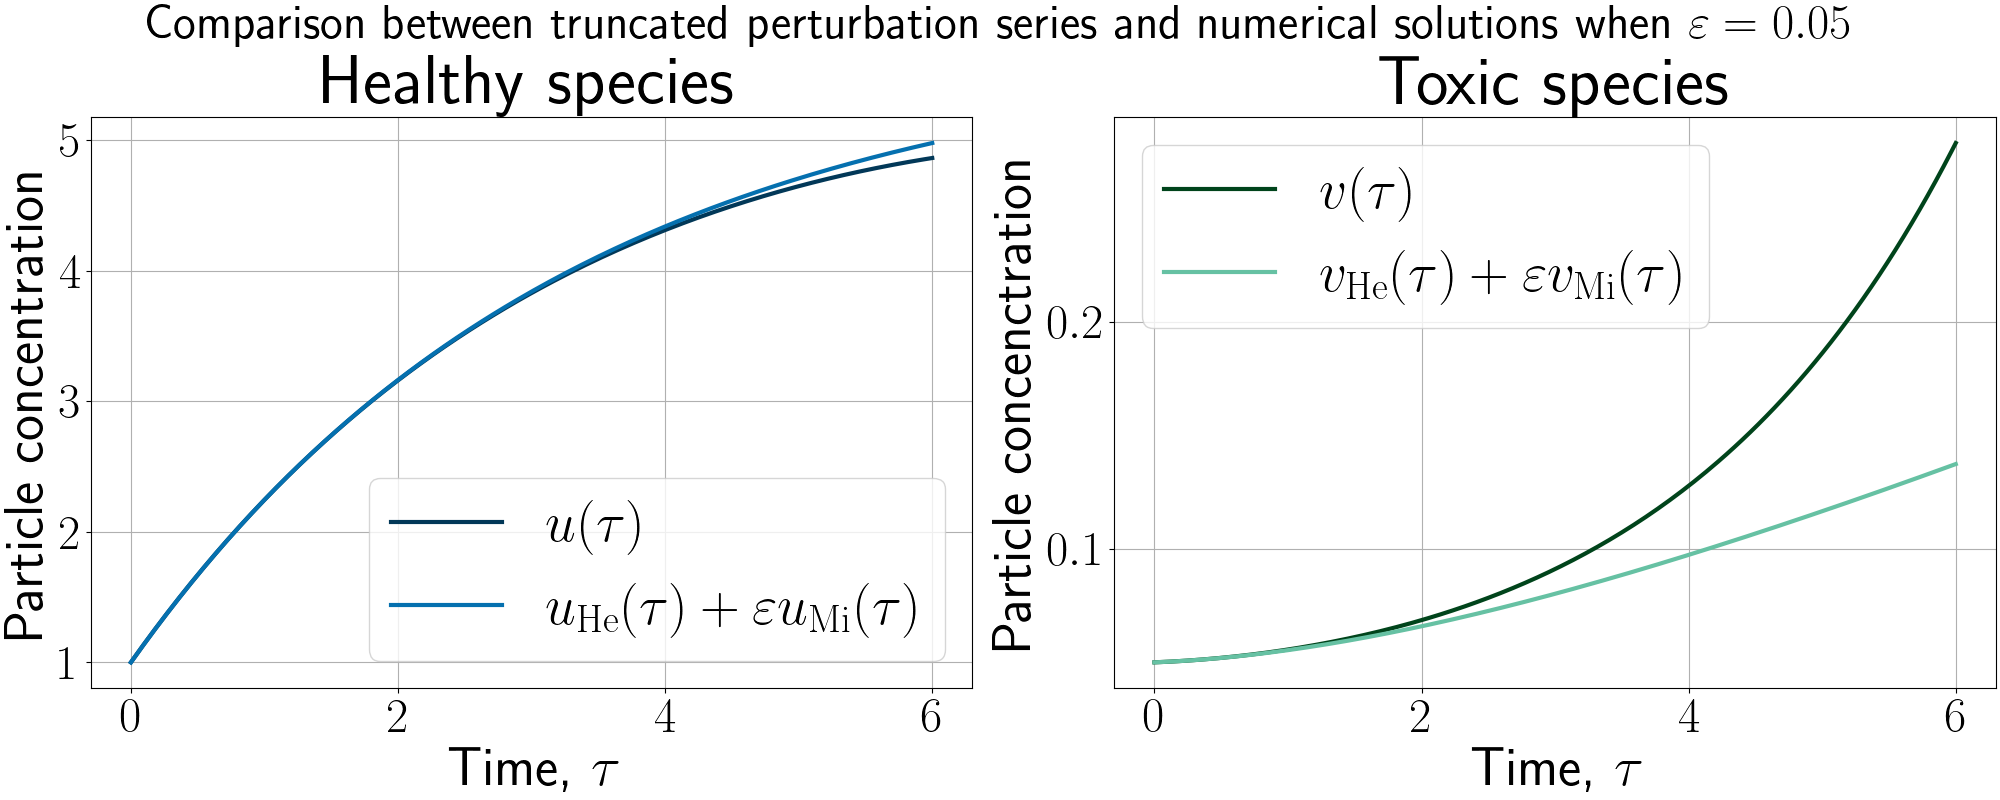
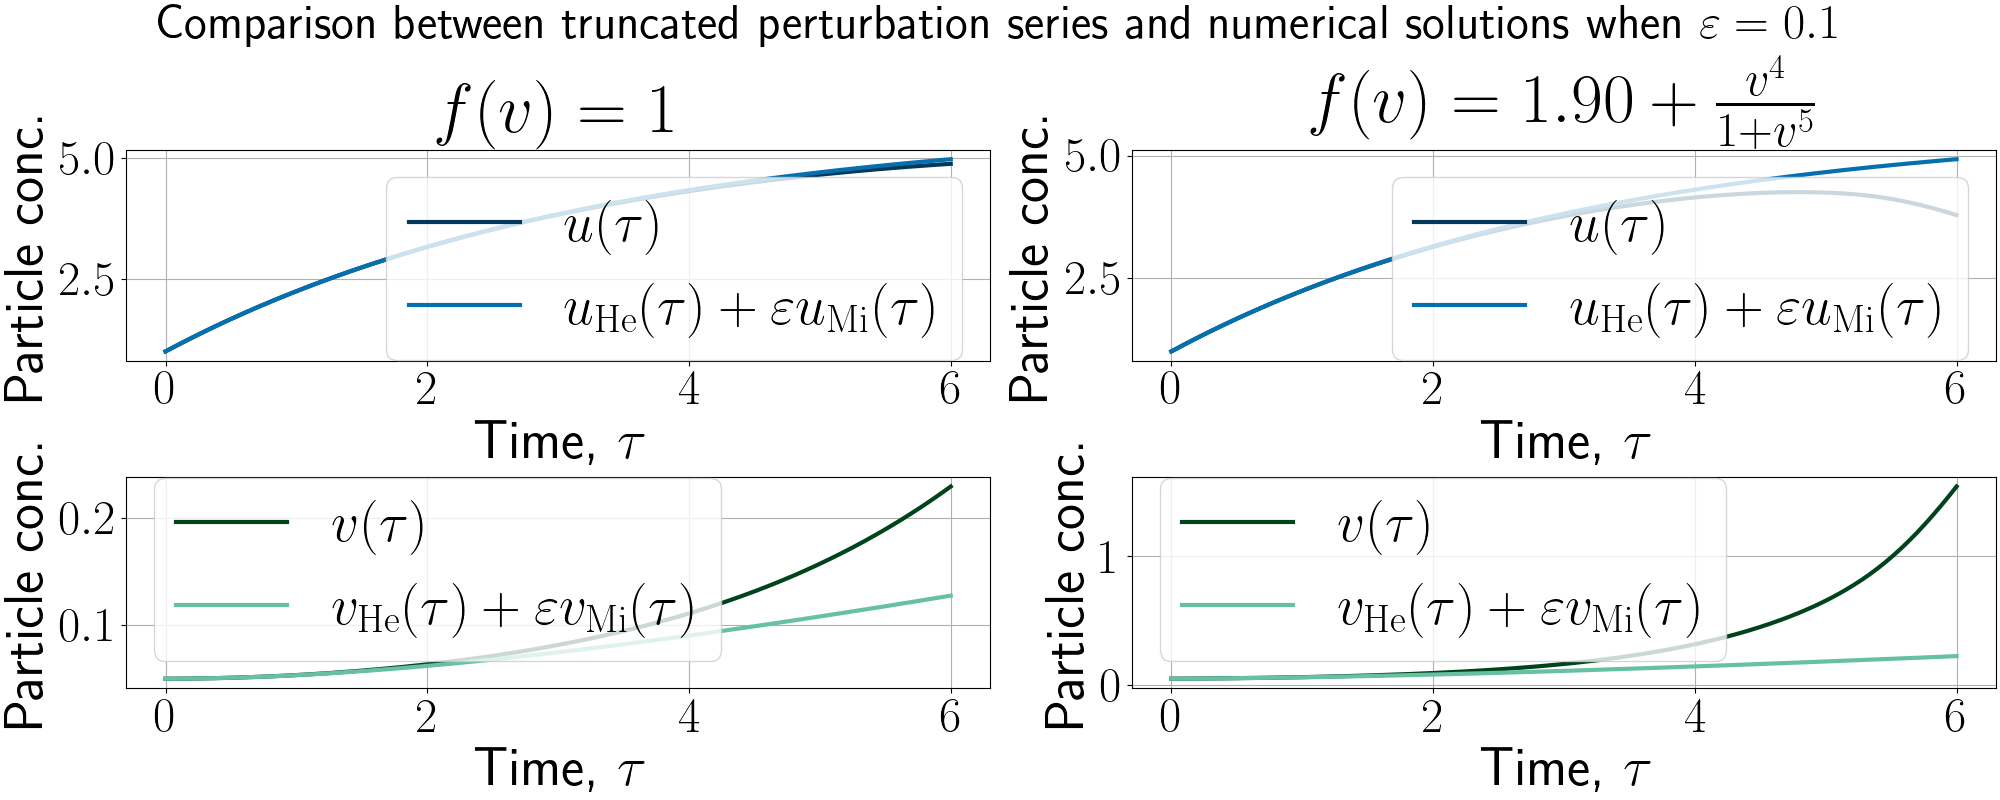
Update with logistic figure

diff --git a/Code/HeMiTo.py b/Code/HeMiTo.py
@@ -2,7 +2,7 @@
 # =========================================================
 # Script: HeMiTo
 # Written by: Johannes Borgqvist
-# Date: 2026-10-02
+# Date: 2026-10-09
 # Description:
 # This is the main script for the  continuation paper for the first HeMiTo-paper, and here we validate analytical approximations in the Mi-phase.
 # =========================================================
@@ -18,8 +18,7 @@ plt.rcParams['text.usetex'] = True
 # Define dimensionless parameters
 c1 = 1.75 # Healthy formation rate
 c2 = 0.3 # Healthy degradation rate
-vareps = 0.05 # Conversion rate and perturbation parameter (small value)
-#vareps = 0.10 # Exponential
+vareps = 0.10 # Conversion rate and perturbation parameter (small value)
 # =========================================================
 # =========================================================
 # DEFINE FUNCTIONS
@@ -27,7 +26,7 @@ vareps = 0.05 # Conversion rate and perturbation parameter (small value)
 # =========================================================
 # ----------------------------------------------------------
 # Function 1: ODE system with f=1
-def aB(y, t, p):
+def heterodimer_constant(y, t, p):
     # Unpack and re-name our parameters so that
     # they are understandable
     c1 = p[0]
@@ -38,7 +37,7 @@ def aB(y, t, p):
     return dydt
 # ----------------------------------------------------------   
 # Function 2: ODE system with Hill-type conversion function
-def aB_Hill(y, t, p):
+def heterodimer_nonlinear(y, t, p):
     # Unpack and re-name our parameters so that
     # they are understandable
     c1 = p[0]
@@ -94,21 +93,21 @@ def v_Mi(t, p):
 # =========================================================
 def main():
     # ===================================================================
-    # PART 1 OF 2: NUMERICAL SOLUTIONS VS TRUNCATED PERTURBATION SERIES
+    # PART 1 OF 3: NUMERICAL SOLUTIONS VS TRUNCATED PERTURBATION SERIES
     # ===================================================================
     # Initial conditions
     y0 = [1.00, 0.05]
     # Parameters yeah
     p = [c1, c2, vareps]
-    # Define the age or time if you will
+    # Define the time
     t = np.linspace(0,6,200)
     #-------------------------------------------------------------------
     # Simulate patient with simple conversion term
-    prions = odeint(aB, y0, t, args=(p,))
+    prions_constant = odeint(heterodimer_constant, y0, t, args=(p,))
     # Extract each species for patient
-    u, v = prions.T
+    u_constant, v_constant = prions_constant.T
     # Conversion function
-    f0 = 1 # Standard heterodimer model
+    f0_constant = 1 # Standard heterodimer model
     #-------------------------------------------------------------------
     #-------------------------------------------------------------------
     # UNCOMMENT THE REGION IF YOU WANT TO PLOT THE SOLUTIONS FOR
@@ -116,11 +115,11 @@ def main():
     #-------------------------------------------------------------------    
     #-------------------------------------------------------------------    
     # Simulate patient with simple conversion term
-    prions = odeint(aB_Hill, y0, t, args=(p,))
+    prions_nonlinear = odeint(heterodimer_nonlinear, y0, t, args=(p,))
     # Extract each species for patient
-    u, v = prions.T
+    u_nonlinear, v_nonlinear = prions_nonlinear.T
     # Conversion function f(v0) for the nonlinear Hill conversion function
-    f0 = 1.90+((y0[1]**4)/(1+(y0[1]**5)))
+    f0_nonlinear = 1.90+((y0[1]**4)/(1+(y0[1]**5)))
     #-------------------------------------------------------------------
     #-------------------------------------------------------------------
     # FIGURE 1: SOLUTIONS VS TRUNCATED PERTURBATION SERIES
@@ -128,99 +127,220 @@ def main():
     #-------------------------------------------------------------------
     # The colours for the plots are chosen based on the colourmaps available at https://colorbrewer2.org/
     # Make a 1x2 plot
-    f_prions, ax_prions = plt.subplots(1, 2, constrained_layout=True, figsize=(20, 8))
+    f_prions, ax_prions = plt.subplots(2, 2, constrained_layout=True, figsize=(20, 8))
+    #-------------------------------------------------------------------
+    # Plot 1A: u vs u_He+vareps*u_Mi with f(v)=1
+    #-------------------------------------------------------------------
     # Plot the simulated data and the underlying model
-    ax_prions[0].plot(t,u,color=(2/256,56/256,88/256),label="$u(\\tau)$",linewidth=3.0)
-    ax_prions[0].plot(t,u_He(t, [y0[0], c1, c2])+vareps*u_Mi(t, [y0[0], y0[1], c1, c2, f0]),color=(5/256,112/256,176/256),label="$u_{\\mathrm{He}}(\\tau)+\\varepsilon u_{\\mathrm{Mi}}(\\tau)$",linewidth=3.0)
+    ax_prions[0][0].plot(t,u_constant,color=(2/256,56/256,88/256),label="$u(\\tau)$",linewidth=3.0)
+    ax_prions[0][0].plot(t,u_He(t, [y0[0], c1, c2])+vareps*u_Mi(t, [y0[0], y0[1], c1, c2, f0_constant]),color=(5/256,112/256,176/256),label="$u_{\\mathrm{He}}(\\tau)+\\varepsilon u_{\\mathrm{Mi}}(\\tau)$",linewidth=3.0)
     # Set a grid and define a legend
-    ax_prions[0].grid()
-    ax_prions[0].legend(loc='best',prop={"size":40})
+    ax_prions[0][0].grid()
+    ax_prions[0][0].legend(loc='best',prop={"size":40})
     # Set the x-labels and y-labels
-    ax_prions[0].set_xlabel(xlabel="Time, $\\tau$",fontsize=40)
-    ax_prions[0].set_ylabel(ylabel="Particle concentration",fontsize=40)
-    ax_prions[0].set_title(label="Healthy species",fontsize=50)    
-    ax_prions[0].xaxis.set_tick_params(labelsize=35)
-    ax_prions[0].yaxis.set_tick_params(labelsize=35)
+    ax_prions[0][0].set_xlabel(xlabel="Time, $\\tau$",fontsize=40)
+    ax_prions[0][0].set_ylabel(ylabel="Particle conc.",fontsize=40)
+    ax_prions[0][0].set_title(label="$f(v)=1$",fontsize=50)    
+    ax_prions[0][0].xaxis.set_tick_params(labelsize=35)
+    ax_prions[0][0].yaxis.set_tick_params(labelsize=35)
+    #-------------------------------------------------------------------
+    # Plot 1B: u vs u_He+vareps*u_Mi with f(v)=1.90+((v^4)/(1+v^5))
+    #-------------------------------------------------------------------
     # Plot the simulated data and the underlying model
-    ax_prions[1].plot(t,v,color=(0/256,68/256,27/256),label="$v(\\tau)$",linewidth=3.0)
-    ax_prions[1].plot(t,y0[1]*((t+1)/(t+1))+vareps*v_Mi(t, [y0[0], y0[1], c1, c2, f0]),color=(102/256,194/256,164/256),label="$v_{\\mathrm{He}}(\\tau)+\\varepsilon v_{\\mathrm{Mi}}(\\tau)$",linewidth=3.0)
+    ax_prions[0][1].plot(t,u_nonlinear,color=(2/256,56/256,88/256),label="$u(\\tau)$",linewidth=3.0)
+    ax_prions[0][1].plot(t,u_He(t, [y0[0], c1, c2])+vareps*u_Mi(t, [y0[0], y0[1], c1, c2, f0_nonlinear]),color=(5/256,112/256,176/256),label="$u_{\\mathrm{He}}(\\tau)+\\varepsilon u_{\\mathrm{Mi}}(\\tau)$",linewidth=3.0)
     # Set a grid and define a legend
-    ax_prions[1].grid()
-    ax_prions[1].legend(loc='best',prop={"size":40})
+    ax_prions[0][1].grid()
+    ax_prions[0][1].legend(loc='best',prop={"size":40})
     # Set the x-labels and y-labels
-    ax_prions[1].set_xlabel(xlabel="Time, $\\tau$",fontsize=40)
-    ax_prions[1].set_ylabel(ylabel="Particle concenctration",fontsize=40)
-    ax_prions[1].set_title(label="Toxic species",fontsize=50) 
-    ax_prions[1].xaxis.set_tick_params(labelsize=35)
-    ax_prions[1].yaxis.set_tick_params(labelsize=35)
+    ax_prions[0][1].set_xlabel(xlabel="Time, $\\tau$",fontsize=40)
+    ax_prions[0][1].set_ylabel(ylabel="Particle conc.",fontsize=40)
+    ax_prions[0][1].set_title(label="$f(v)=1.90+\\frac{v^{4}}{1+v^{5}}$",fontsize=50)    
+    ax_prions[0][1].xaxis.set_tick_params(labelsize=35)
+    ax_prions[0][1].yaxis.set_tick_params(labelsize=35) 
+    #-------------------------------------------------------------------
+    # Plot 1C: v vs v_He+vareps*v_Mi with f(v)=1
+    #-------------------------------------------------------------------
+    # Plot the simulated data and the underlying model
+    ax_prions[1][0].plot(t,v_constant,color=(0/256,68/256,27/256),label="$v(\\tau)$",linewidth=3.0)
+    ax_prions[1][0].plot(t,y0[1]*((t+1)/(t+1))+vareps*v_Mi(t, [y0[0], y0[1], c1, c2, f0_constant]),color=(102/256,194/256,164/256),label="$v_{\\mathrm{He}}(\\tau)+\\varepsilon v_{\\mathrm{Mi}}(\\tau)$",linewidth=3.0)       
+    # Set a grid and define a legend
+    ax_prions[1][0].grid()
+    ax_prions[1][0].legend(loc='best',prop={"size":40})
+    # Set the x-labels and y-labels
+    ax_prions[1][0].set_xlabel(xlabel="Time, $\\tau$",fontsize=40)
+    ax_prions[1][0].set_ylabel(ylabel="Particle conc.",fontsize=40)
+    #ax_prions[1][0].set_title(label="Toxic species",fontsize=50) 
+    ax_prions[1][0].xaxis.set_tick_params(labelsize=35)
+    ax_prions[1][0].yaxis.set_tick_params(labelsize=35)
+    #-------------------------------------------------------------------
+    # Plot 1D: v vs v_He+vareps*v_Mi with f(v)=1.90+((v^4)/(1+v^5))
+    #-------------------------------------------------------------------
+    # Plot the simulated data and the underlying model
+    ax_prions[1][1].plot(t,v_nonlinear,color=(0/256,68/256,27/256),label="$v(\\tau)$",linewidth=3.0)
+    ax_prions[1][1].plot(t,y0[1]*((t+1)/(t+1))+vareps*v_Mi(t, [y0[0], y0[1], c1, c2, f0_nonlinear]),color=(102/256,194/256,164/256),label="$v_{\\mathrm{He}}(\\tau)+\\varepsilon v_{\\mathrm{Mi}}(\\tau)$",linewidth=3.0)       
+    # Set a grid and define a legend
+    ax_prions[1][1].grid()
+    ax_prions[1][1].legend(loc='best',prop={"size":40})
+    # Set the x-labels and y-labels
+    ax_prions[1][1].set_xlabel(xlabel="Time, $\\tau$",fontsize=40)
+    ax_prions[1][1].set_ylabel(ylabel="Particle conc.",fontsize=40)
+    #ax_prions[1][1].set_title(label="Toxic species",fontsize=50) 
+    ax_prions[1][1].xaxis.set_tick_params(labelsize=35)
+    ax_prions[1][1].yaxis.set_tick_params(labelsize=35)    
     plt.suptitle("Comparison between truncated perturbation series and numerical solutions when $\\varepsilon="+str(vareps)+"$",fontsize=35)
     f_prions.savefig('../Figures/HeMi_dynamics.png')
     # ===================================================================
-    # PART 2 OF 2: EXPONENTIAL APPROXIMATION OF TOXIC SPECIES
+    # PART 2 OF 3: EXPONENTIAL APPROXIMATION OF TOXIC SPECIES
     # ===================================================================
     # # Parameters yeah
     p_high = [c1, 5.5*c2, vareps]
     p_medium = [c1, 5.0*c2, vareps]
     p_low = [c1, 4.5*c2, vareps]
-    # Define the age or time if you will
+    # Define the time for the exponential approximation
     t_exp = np.linspace(0,10,200)
     # Simulate patient with simple conversion term
-    prions_exp_high = odeint(aB_Hill, y0, t_exp, args=(p_high,))
-    prions_exp_medium = odeint(aB_Hill, y0, t_exp, args=(p_medium,))
-    prions_exp_low = odeint(aB_Hill, y0, t_exp, args=(p_low,))
+    prions_exp_high = odeint(heterodimer_nonlinear, y0, t_exp, args=(p_high,))
+    prions_exp_medium = odeint(heterodimer_nonlinear, y0, t_exp, args=(p_medium,))
+    prions_exp_low = odeint(heterodimer_nonlinear, y0, t_exp, args=(p_low,))
     # Extract each species for patient
     u_exp_high, v_exp_high = prions_exp_high.T
     u_exp_medium, v_exp_medium = prions_exp_medium.T
     u_exp_low, v_exp_low = prions_exp_low.T
     # Errors
-    err_num_high = np.abs(v_exp_high-y0[1]*np.exp((y0[0]*f0-1)*vareps*t_exp))
-    err_num_medium = np.abs(v_exp_medium-y0[1]*np.exp((y0[0]*f0-1)*vareps*t_exp))
-    err_num_low = np.abs(v_exp_low-y0[1]*np.exp((y0[0]*f0-1)*vareps*t_exp))
-    err_theo_high = vareps*y0[1]*(f0*(c1-5.5*c2*y0[0])-vareps*(y0[0]*f0-1)**2)*((t_exp**2)/2)
-    err_theo_medium = vareps*y0[1]*(f0*(c1-5.0*c2*y0[0])-vareps*(y0[0]*f0-1)**2)*((t_exp**2)/2)
-    err_theo_low = vareps*y0[1]*(f0*(c1-4.5*c2*y0[0])-vareps*(y0[0]*f0-1)**2)*((t_exp**2)/2)
+    err_num_high = np.abs(v_exp_high-y0[1]*np.exp((y0[0]*f0_nonlinear-1)*vareps*t_exp))
+    err_num_medium = np.abs(v_exp_medium-y0[1]*np.exp((y0[0]*f0_nonlinear-1)*vareps*t_exp))
+    err_num_low = np.abs(v_exp_low-y0[1]*np.exp((y0[0]*f0_nonlinear-1)*vareps*t_exp))
+    err_theo_high = vareps*y0[1]*(f0_nonlinear*(c1-5.5*c2*y0[0])-vareps*(y0[0]*f0_nonlinear-1)**2)*((t_exp**2)/2)
+    err_theo_medium = vareps*y0[1]*(f0_nonlinear*(c1-5.0*c2*y0[0])-vareps*(y0[0]*f0_nonlinear-1)**2)*((t_exp**2)/2)
+    err_theo_low = vareps*y0[1]*(f0_nonlinear*(c1-4.5*c2*y0[0])-vareps*(y0[0]*f0_nonlinear-1)**2)*((t_exp**2)/2)
     #-------------------------------------------------------------------
     #-------------------------------------------------------------------
-    # FIGURE 2: SOLUTION OF TOXIC SPECIES VS EXPONENTIAL APPROXIMATION
+    # FIGURE 2: SOLUTION OF TOXIC SPECIES VS EXPONENTIAL APPROXIMATION IN THE MI-PHASE
     #-------------------------------------------------------------------
     #-------------------------------------------------------------------
-    # Plot A: Toxic species vs exponential approximation
+    # Plot 2A: Toxic species vs exponential approximation
     #-------------------------------------------------------------------
-    #Define the first figure
-    f_prions, ax_prions = plt.subplots(1, 2, constrained_layout=True, figsize=(20, 8))
+    #Define the second figure
+    f_prions_exp, ax_prions_exp = plt.subplots(1, 2, constrained_layout=True, figsize=(20, 8))
     # Plot the simulated data and the underlying model
-    ax_prions[0].plot(t_exp,v_exp_low,color=(35/256,139/256,69/256),label="$v(\\tau)$ low $c_{2}$",linewidth=3.0)
-    ax_prions[0].plot(t_exp,v_exp_medium,color=(0/256,109/256,44/256),label="$v(\\tau)$ medium $c_{2}$",linewidth=3.0)
-    ax_prions[0].plot(t_exp,v_exp_high,color=(0/256,68/256,27/256),label="$v(\\tau)$ high $c_{2}$",linewidth=3.0)
-    ax_prions[0].plot(t_exp,y0[1]*np.exp((y0[0]*f0-1)*vareps*t_exp),color=(153/256,216/256,201/256),label="$v_{0}e^{\\lambda\\varepsilon\\tau}$",linewidth=3.0)
+    ax_prions_exp[0].plot(t_exp,v_exp_low,color=(35/256,139/256,69/256),label="$v(\\tau)$ low $c_{2}$",linewidth=3.0)
+    ax_prions_exp[0].plot(t_exp,v_exp_medium,color=(0/256,109/256,44/256),label="$v(\\tau)$ medium $c_{2}$",linewidth=3.0)
+    ax_prions_exp[0].plot(t_exp,v_exp_high,color=(0/256,68/256,27/256),label="$v(\\tau)$ high $c_{2}$",linewidth=3.0)
+    ax_prions_exp[0].plot(t_exp,y0[1]*np.exp((y0[0]*f0_nonlinear-1)*vareps*t_exp),color=(153/256,216/256,201/256),label="$v_{0}e^{\\lambda\\varepsilon\\tau}$",linewidth=3.0)
     # Set a grid and define a legend
-    ax_prions[0].grid()
-    ax_prions[0].legend(loc='best',prop={"size":40})
+    ax_prions_exp[0].grid()
+    ax_prions_exp[0].legend(loc='best',prop={"size":40})
     # Set the x-labels and y-labels
-    ax_prions[0].set_xlabel(xlabel="Time, $\\tau$",fontsize=40)
-    ax_prions[0].set_ylabel(ylabel="Particle concentration",fontsize=40)
-    ax_prions[0].set_title(label="Toxic species",fontsize=50)    
-    ax_prions[0].xaxis.set_tick_params(labelsize=35)
-    ax_prions[0].yaxis.set_tick_params(labelsize=35)
+    ax_prions_exp[0].set_xlabel(xlabel="Time, $\\tau$",fontsize=40)
+    ax_prions_exp[0].set_ylabel(ylabel="Particle conc.",fontsize=40)
+    ax_prions_exp[0].set_title(label="Toxic species",fontsize=50)    
+    ax_prions_exp[0].xaxis.set_tick_params(labelsize=35)
+    ax_prions_exp[0].yaxis.set_tick_params(labelsize=35)
     # Plot the simulated data and the underlying model
-    ax_prions[0].plot(t_exp,v_exp_low,color=(35/256,139/256,69/256),label="$v_{\\mathrm{low}}(\\tau)$",linewidth=3.0)
+    ax_prions_exp[0].plot(t_exp,v_exp_low,color=(35/256,139/256,69/256),label="$v_{\\mathrm{low}}(\\tau)$",linewidth=3.0)
     #-------------------------------------------------------------------
-    # Plot B: Error ratio
+    # Plot 2B: Error ratio
     #-------------------------------------------------------------------
-    ax_prions[1].plot(t_exp,100*np.abs(err_theo_low)/(np.abs(err_theo_low)+np.abs(err_num_low-err_theo_low)),color=(77/256,0/256,75/256),label="$R_{\\mathrm{HSS}}(\\tau)$ low $c_{2}$",linewidth=3.0)    
-    ax_prions[1].plot(t_exp,100*np.abs(err_theo_medium)/(np.abs(err_theo_medium)+np.abs(err_num_medium-err_theo_medium)),color=(129/256,15/256,124/256),label="$R_{\\mathrm{HSS}}(\\tau)$ medium $c_{2}$",linewidth=3.0)
-    ax_prions[1].plot(t_exp,100*np.abs(err_theo_high)/(np.abs(err_theo_high)+np.abs(err_num_high-err_theo_high)),color=(136/256,65/256,157/256),label="$R_{\\mathrm{HSS}}(\\tau)$ high $c_{2}$",linewidth=3.0)    
+    ax_prions_exp[1].plot(t_exp,100*np.abs(err_theo_low)/(np.abs(err_theo_low)+np.abs(err_num_low-err_theo_low)),color=(77/256,0/256,75/256),label="$R_{\\mathrm{HSS}}(\\tau)$ low $c_{2}$",linewidth=3.0)    
+    ax_prions_exp[1].plot(t_exp,100*np.abs(err_theo_medium)/(np.abs(err_theo_medium)+np.abs(err_num_medium-err_theo_medium)),color=(129/256,15/256,124/256),label="$R_{\\mathrm{HSS}}(\\tau)$ medium $c_{2}$",linewidth=3.0)
+    ax_prions_exp[1].plot(t_exp,100*np.abs(err_theo_high)/(np.abs(err_theo_high)+np.abs(err_num_high-err_theo_high)),color=(136/256,65/256,157/256),label="$R_{\\mathrm{HSS}}(\\tau)$ high $c_{2}$",linewidth=3.0)    
     # Set a grid and define a legend
-    ax_prions[1].grid()
-    ax_prions[1].legend(loc='best',prop={"size":40})
+    ax_prions_exp[1].grid()
+    ax_prions_exp[1].legend(loc='best',prop={"size":40})
     # Set the x-labels and y-labels
-    ax_prions[1].set_xlabel(xlabel="Time, $\\tau$",fontsize=40)
-    ax_prions[1].set_ylabel(ylabel="$R_{\\mathcal{HSS}}(\\tau)$",fontsize=40)
-    ax_prions[1].set_title(label="Error ratio",fontsize=50)    
-    ax_prions[1].xaxis.set_tick_params(labelsize=35)
-    ax_prions[1].yaxis.set_tick_params(labelsize=35)
-    plt.suptitle("Exoponential approximation of the toxic species during the Mi-phase",fontsize=35)
-    f_prions.savefig('../Figures/Mi_phase_exponential.png')
+    ax_prions_exp[1].set_xlabel(xlabel="Time, $\\tau$",fontsize=40)
+    ax_prions_exp[1].set_ylabel(ylabel="$R_{\\mathcal{HSS}}(\\tau)$",fontsize=40)
+    ax_prions_exp[1].set_title(label="Error ratio",fontsize=50)    
+    ax_prions_exp[1].xaxis.set_tick_params(labelsize=35)
+    ax_prions_exp[1].yaxis.set_tick_params(labelsize=35)
+    plt.suptitle("Exponential approximation of the toxic species during the Mi-phase",fontsize=35)
+    #plt.show()
+    f_prions_exp.savefig('../Figures/Mi_phase_exponential.png')
+
+    # ===================================================================
+    # PART 3 OF 3: LOGISTIC APPROXIMATION OF TOXIC SPECIES IN THE TO-PHASE
+    # ===================================================================
+    print("--------------------------------------------------")
+    print("Logistic approximation in the To-phase")
+    print("--------------------------------------------------")    
+    # Define temporary time vector
+    t_temp = np.linspace(0,45)
+    # Calculate the steady state
+    v_2_star_constant = (1/vareps)*(c1-c2)
+    print("Steady state value,\t\tv_2^star\t=\t%0.3f"%(v_2_star_constant))
+    # Simulate system and calculate initial conditions for the To-phase
+    prions_To_constant = odeint(heterodimer_constant, y0, t_temp, args=(p,))
+    # Extract each species for patient
+    u_To_constant, v_To_constant = prions_To_constant.T
+    # Find the initial values
+    u0_To = u_To_constant[-1]
+    v0_To = v_To_constant[-1]
+    print("Initial conditions,\t\t(u0,v0)\t\t=\t(%0.3f,%0.3f)\n"%(u0_To,v0_To))
+    print("How far are we from the TSS-value?")
+    print("\t\t\t\t(v2_star-v0)\t\t=\t%0.3f"%(v_2_star_constant-v0_To))
+    # Calculate the values of the function and carrying capacity
+    phi_v0 = ((c1)/(c2+vareps*v0_To))-1
+    phi_prime_v0 = -((c1*vareps)/((c2+vareps*v0_To)**2))
+    print("\t\t\t\tphi_v0\t\t=\t%0.3f"%(phi_v0))
+    print("\t\t\t\tphi_prime_v0\t\t=\t%0.3f"%(phi_prime_v0))
+    # Calculate the growth rate and carrying capacity
+    gamma = vareps*(phi_v0-v0_To*phi_prime_v0)
+    kappa = v0_To - phi_v0/phi_prime_v0
+    print("\t\t\t\tgamma\t\t=\t%0.3f"%(gamma))
+    print("\t\t\t\tkappa\t\t=\t%0.3f"%(kappa))    
+    # Make new time vector for the logistic growth
+    t_log = np.linspace(0,30)
+    # Heterodimer model in the To-phase
+    prions_To_constant = odeint(heterodimer_constant, [u0_To,v0_To], t_log, args=(p,))
+    # The logistic solutions in the To-phase
+    u_log, v_log = prions_To_constant.T    
+    # Calculate the v_log
+    v_log_approx = kappa/(1+((kappa-v0_To)/(v0_To))*np.exp(-gamma*t_log))
+    u_log_approx = ((c1)/(c2+vareps*v_log_approx))
+    print("--------------------------------------------------")
+    print("--------------------------------------------------")    
+    #-------------------------------------------------------------------
+    #-------------------------------------------------------------------
+    # FIGURE 3: Logistic approximation of the toxic species in the final To-phase
+    #-------------------------------------------------------------------
+    #-------------------------------------------------------------------
+    # Plot 3A: Toxic species vs exponential approximation
+    #-------------------------------------------------------------------
+    #Define the second figure
+    f_prions_log, ax_prions_log = plt.subplots(1, 2, constrained_layout=True, figsize=(20, 8))
+    # Plot the simulated data and the underlying model
+    ax_prions_log[0].plot(t_log,u_log,color=(2/256,56/256,88/256),label="$u(\\tau)$",linewidth=3.0)
+    ax_prions_log[0].plot(t_log,u_log_approx,color=(5/256,112/256,176/256),label="$u_{\\mathrm{qss}}(v)=\\frac{c_{1}}{c_{2}+\\varepsilon{v}}$",linewidth=3.0)    
+    # Set a grid and define a legend
+    ax_prions_log[0].grid()
+    ax_prions_log[0].legend(loc='best',prop={"size":40})
+    # Set the x-labels and y-labels
+    ax_prions_log[0].set_xlabel(xlabel="Time, $\\tau$",fontsize=40)
+    ax_prions_log[0].set_ylabel(ylabel="Particle conc.",fontsize=40)
+    ax_prions_log[0].set_title(label="Healthy species",fontsize=50)    
+    ax_prions_log[0].xaxis.set_tick_params(labelsize=35)
+    ax_prions_log[0].yaxis.set_tick_params(labelsize=35)
+    #-------------------------------------------------------------------
+    # Plot 3B: Error ratio
+    #-------------------------------------------------------------------
+    # Plot the simulated data and the underlying model
+    ax_prions_log[1].plot(t_log,v_log,color=(0/256,68/256,27/256),label="$v(\\tau)$",linewidth=3.0)
+    ax_prions_log[1].plot(t_log,v_log_approx,color=(102/256,194/256,164/256),label="$\\frac{\\kappa}{1-\\left(\\frac{\\kappa-v_{0}}{v_{0}}\\right)e^{-\\gamma\\tau}}$",linewidth=3.0)           
+    # Set a grid and define a legend
+    ax_prions_log[1].grid()
+    ax_prions_log[1].legend(loc='best',prop={"size":40})
+    # Set the x-labels and y-labels
+    ax_prions_log[1].set_xlabel(xlabel="Time, $\\tau$",fontsize=40)
+    ax_prions_log[1].set_ylabel(ylabel="Particle conc.",fontsize=40)
+    ax_prions_log[1].set_title(label="Toxic species",fontsize=50)    
+    ax_prions_log[1].xaxis.set_tick_params(labelsize=35)
+    ax_prions_log[1].yaxis.set_tick_params(labelsize=35)
+    plt.suptitle("Logistic approximation of the toxic species during the To-phase",fontsize=35)
+    plt.show()
+    f_prions_log.savefig('../Figures/To_phase_logistic.png')
+
+    
 # =========================================================
 # RUN THE MAIN FUNCTION
 # =========================================================
